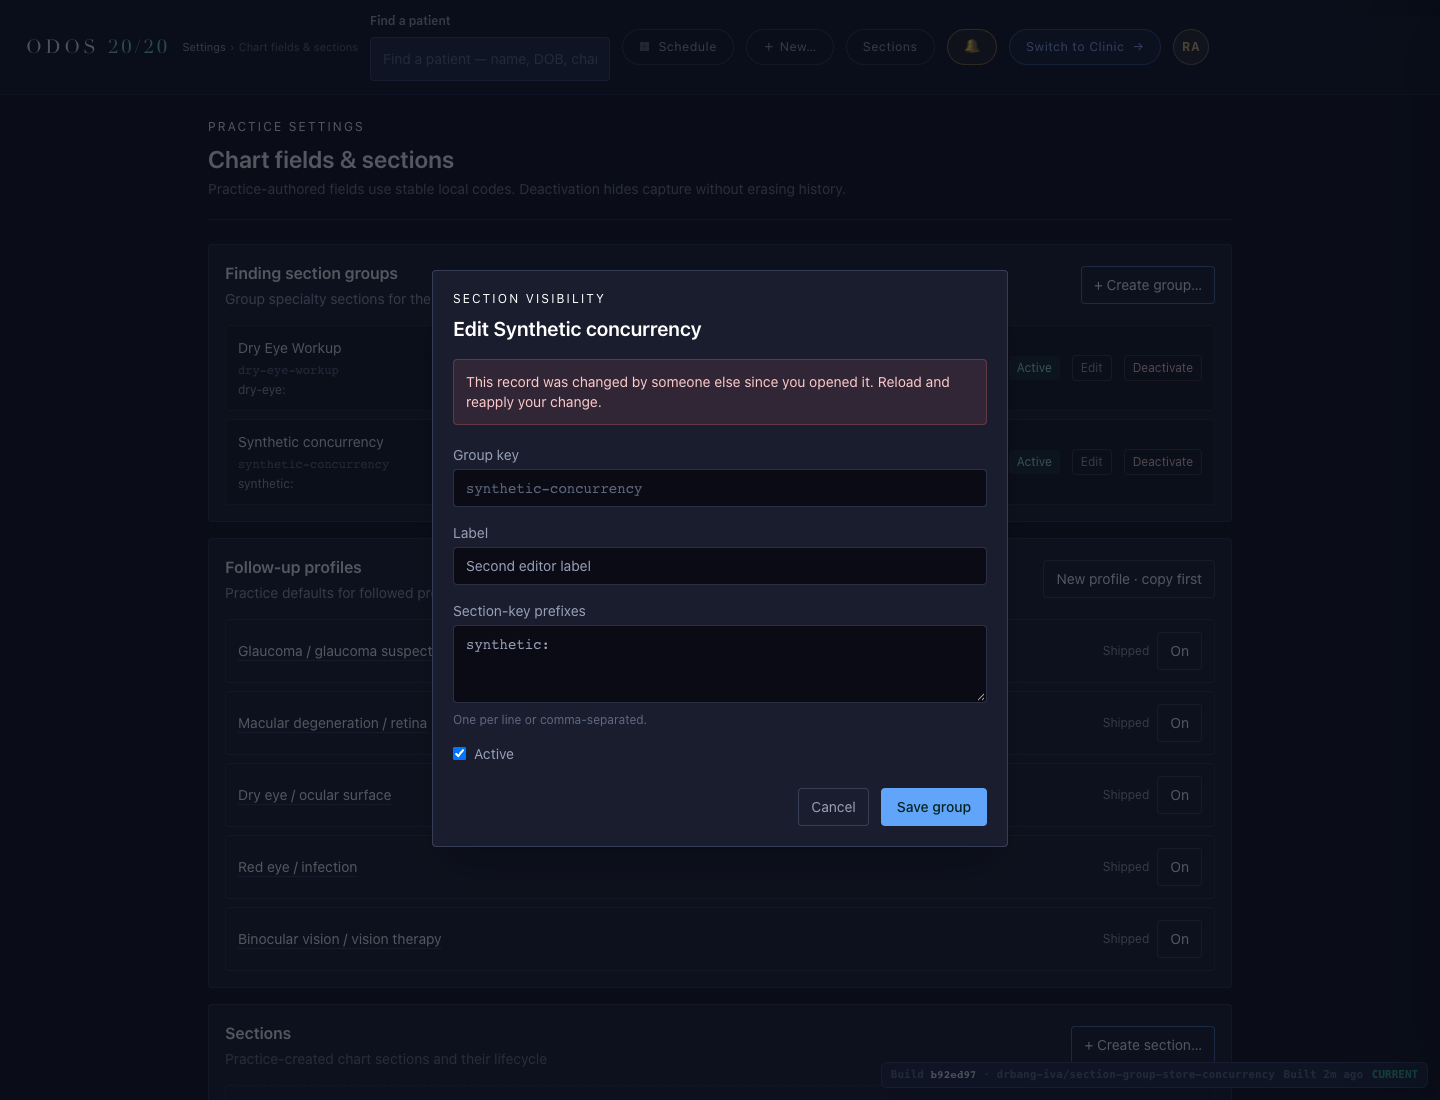
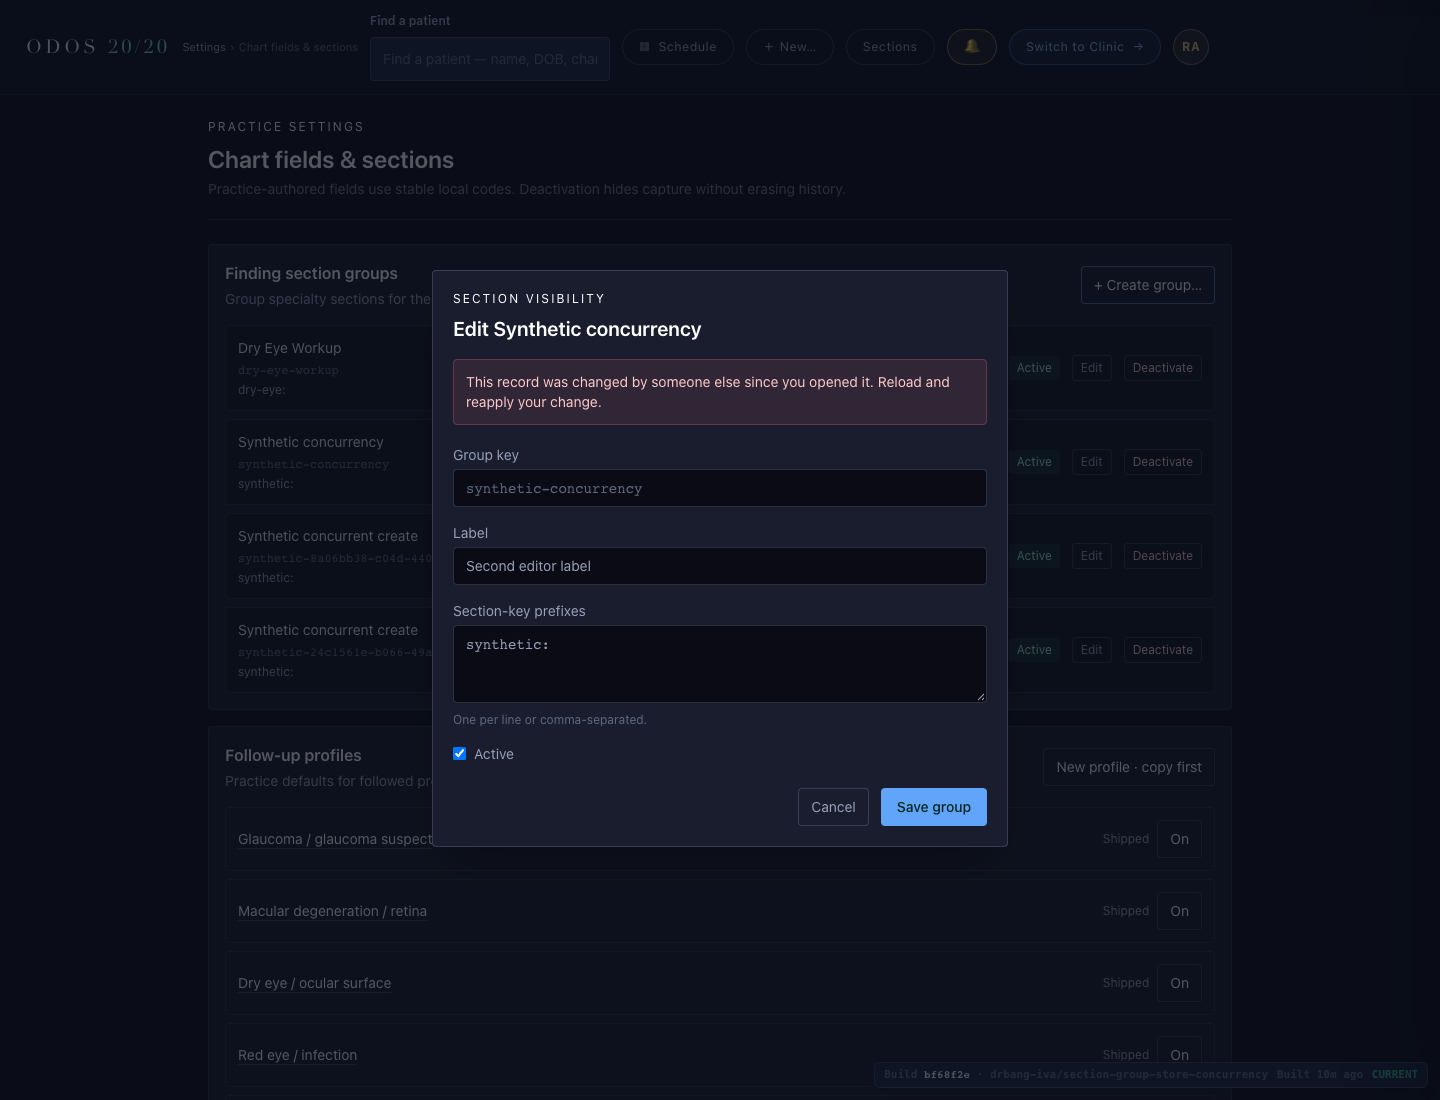
Address section-group review findings and seal proof

diff --git a/ui/tests/findingSectionGroups.test.tsx b/ui/tests/findingSectionGroups.test.tsx
@@ -638,5 +638,10 @@ for (const action of ["edit", "deactivate"] as const) test(`G1 Settings ${action
     const alert = renderer.root.findByProps({ role: "alert" });
     assert.equal(alert.children.join(""), CONCURRENT_EDIT_MESSAGE);
     if (action === "edit") assert.equal(renderer.root.findByType("form").findByProps({ role: "alert" }), alert);
+    if (action === "edit") await act(async () => { renderer.root.findAllByType("button").find(b => b.children.join("") === "Cancel")!.props.onClick(); });
+    await act(async () => {
+      renderer.root.findAllByType("button").find(b => action === "edit" ? b.children.join("").includes("Create group") : b.children.join("") === "Edit")!.props.onClick();
+    });
+    assert.equal(renderer.root.findAllByProps({ role: "alert" }).length, 0, "a newly opened editor does not inherit the previous operation's error");
   } finally { renderer?.unmount(); globalThis.fetch = originalFetch; }
 });

diff --git a/ui/src/components/settings/FindingSectionGroupsSettings.tsx b/ui/src/components/settings/FindingSectionGroupsSettings.tsx
@@ -80,6 +80,7 @@ export function FindingSectionGroupsSettings() {
   }
 
   function edit(group: FindingSectionGroup) {
+    setError(null);
     setEditing({
       original: group,
       draft: {
@@ -92,6 +93,7 @@ export function FindingSectionGroupsSettings() {
   }
 
   function create() {
+    setError(null);
     setEditing({
       draft: {
         groupKey: "",

diff --git a/docs/build-log/issue-639-section-group-concurrency/BUNDLE.md b/docs/build-log/issue-639-section-group-concurrency/BUNDLE.md
@@ -43,7 +43,7 @@ No outside-allowlist files were changed or are needed. No new clinical codes, FH
 
 ## Guards
 
-[GUARDS.md](GUARDS.md) quotes every red and restored-green summary and the G8 verification output; [mutations.json](mutations.json) is the machine-readable record. All 11 mutations returned exit 1, followed by exit 0 after restoration: G1–G7 and four UI payload/message mutations. G8 is verification only.
+[GUARDS.md](GUARDS.md) quotes every red and restored-green summary and the G8 verification output; [mutations.json](mutations.json) is the machine-readable record. All 13 mutations returned exit 1, followed by exit 0 after restoration: G1–G7 and six UI payload/message/error-state mutations. G8 is verification only.
 
 G5 asserts one physical row, not the resolved returned value. A separate test races against an identifier-free legacy override row and verifies it remains the only row.
 
@@ -100,6 +100,12 @@ Focused MCP: 33 passed, zero failed. Focused UI plus clinicalGraphRouting: 21 pa
 `git diff --check`: exit 0.
 
 Initial harness attempts failed due to a missing copied fixture import and the old project-name assertion; both were corrected only in this build-log harness. An early MCP baseline overlapped the failed startup and reported 18 database-connection failures; it was discarded and rerun in the clean base worktree against the ready stack. No test was skipped or weakened to remedy infrastructure failures. The retained baseline above is the complete successful rerun.
+
+## Review fixes
+
+CodeRabbit's three findings were addressed within scope: new edit/create dialogs clear the previous operation's error; the proof usage message names the correct script; and `prepare --base-server` shares the existing synthetic stack and identities while checking only its separate app ports. The shared network and volumes are retained. The proof run order is in [proof/README.md](proof/README.md).
+
+Both stale-error assertions failed before the two-line UI fix and passed afterward. Two additional mutations independently remove those clears and turn the tests red. The final browser replay covers the updated UI and a fresh synthetic encounter. Two final full-UI attempts encountered timing failures in unchanged browser tests. The first reported 1812 passes and one cancellation; the next reported 1809 passes, one timeout failure and three cancellations. macOS power-management evidence showed clamshell and maintenance sleep intervals matching the inflated test durations, including roughly 508, 2989 and 766 seconds. The affected tests were the static-editor width/height gate, dense worksheet row pairing, the 901px Visit/charges composition and chart-bar responsiveness. The suite was rerun using `caffeinate -i npm --prefix ui test`; the temporary assertion ends with the command. No test, timeout, or excluded file was changed. The awake rerun completed: 1813 tests, 1813 passed, zero failures, cancellations or skips (231795 ms).
 
 ## Accepted limitation and follow-ups
 

diff --git a/docs/build-log/issue-639-section-group-concurrency/proof/README.md b/docs/build-log/issue-639-section-group-concurrency/proof/README.md
@@ -1,0 +1,48 @@
+# Disposable proof commands
+
+Run from the task worktree. The base app must come from an untouched checkout of b92ed979. Set BASE_WORKTREE to that checkout. Dependencies must match the locked versions in both checkouts.
+
+```sh
+node docs/build-log/issue-639-section-group-concurrency/proof/stack.mjs prepare
+node docs/build-log/issue-639-section-group-concurrency/proof/stack.mjs up
+node docs/build-log/issue-639-section-group-concurrency/proof/stack.mjs prepare --base-server
+node docs/build-log/issue-639-section-group-concurrency/proof/stack.mjs build --base-server --app-root "$BASE_WORKTREE"
+```
+
+Run the base server in its own terminal:
+
+```sh
+node docs/build-log/issue-639-section-group-concurrency/proof/stack.mjs serve --base-server --app-root "$BASE_WORKTREE"
+```
+
+Then capture before and build proposed:
+
+```sh
+node docs/build-log/issue-639-section-group-concurrency/proof/browser.mjs --before
+node docs/build-log/issue-639-section-group-concurrency/proof/stack.mjs build
+```
+
+Run the proposed server in another terminal:
+
+```sh
+node docs/build-log/issue-639-section-group-concurrency/proof/stack.mjs serve
+```
+
+Capture and verify proposed:
+
+```sh
+node docs/build-log/issue-639-section-group-concurrency/proof/browser.mjs
+node --import tsx docs/build-log/issue-639-section-group-concurrency/proof/concurrent-live.ts
+```
+
+`prepare --base-server` copies this proof's synthetic identity and fixture references into a separate app runtime. It does not create a second database, check the shared service ports, or recreate the Docker network. It checks only the base app ports. Both app runtimes use the same existing odos-639-proof stack. The browser replay creates a fresh synthetic Encounter for each chart proof; the concurrent-live override probe requires the untouched preRebuild encounter and is a one-time run per fixture.
+
+Stop both app servers and the shared stack:
+
+```sh
+node docs/build-log/issue-639-section-group-concurrency/proof/stack.mjs stop-app --base-server
+node docs/build-log/issue-639-section-group-concurrency/proof/stack.mjs stop
+docker ps --filter name=odos-639- --format '{{.Names}}\t{{.Status}}'
+```
+
+Existing prepared runtimes deliberately refuse re-preparation. To restart retained containers, use the existing generated Compose configuration; do not recreate identities or remove volumes. No production endpoint or dataset is involved.

diff --git a/docs/build-log/issue-639-section-group-concurrency/GUARDS.md b/docs/build-log/issue-639-section-group-concurrency/GUARDS.md
@@ -2,6 +2,50 @@
 
 All mutations were temporary and restored before final checks. Outputs below are test summaries, not full logs.
 
+## UI-new-edit-error
+
+Command: `node --import tsx --test --test-name-pattern=G1 Settings deactivate ui/tests/findingSectionGroups.test.tsx`
+
+Red (exit 1):
+```text
+not ok 1 - G1 Settings deactivate sends its loaded version and displays the shared conflict message
+# tests 1
+# pass 0
+# fail 1
+# skipped 0
+```
+
+Restored green (exit 0):
+```text
+ok 1 - G1 Settings deactivate sends its loaded version and displays the shared conflict message
+# tests 1
+# pass 1
+# fail 0
+# skipped 0
+```
+
+## UI-new-create-error
+
+Command: `node --import tsx --test --test-name-pattern=G1 Settings edit ui/tests/findingSectionGroups.test.tsx`
+
+Red (exit 1):
+```text
+not ok 1 - G1 Settings edit sends its loaded version and displays the shared conflict message
+# tests 1
+# pass 0
+# fail 1
+# skipped 0
+```
+
+Restored green (exit 0):
+```text
+ok 1 - G1 Settings edit sends its loaded version and displays the shared conflict message
+# tests 1
+# pass 1
+# fail 0
+# skipped 0
+```
+
 ## UI-create-version
 
 Command: `node --import tsx --test --test-name-pattern=S1b G6 settings ui/tests/findingSectionGroups.test.tsx`
